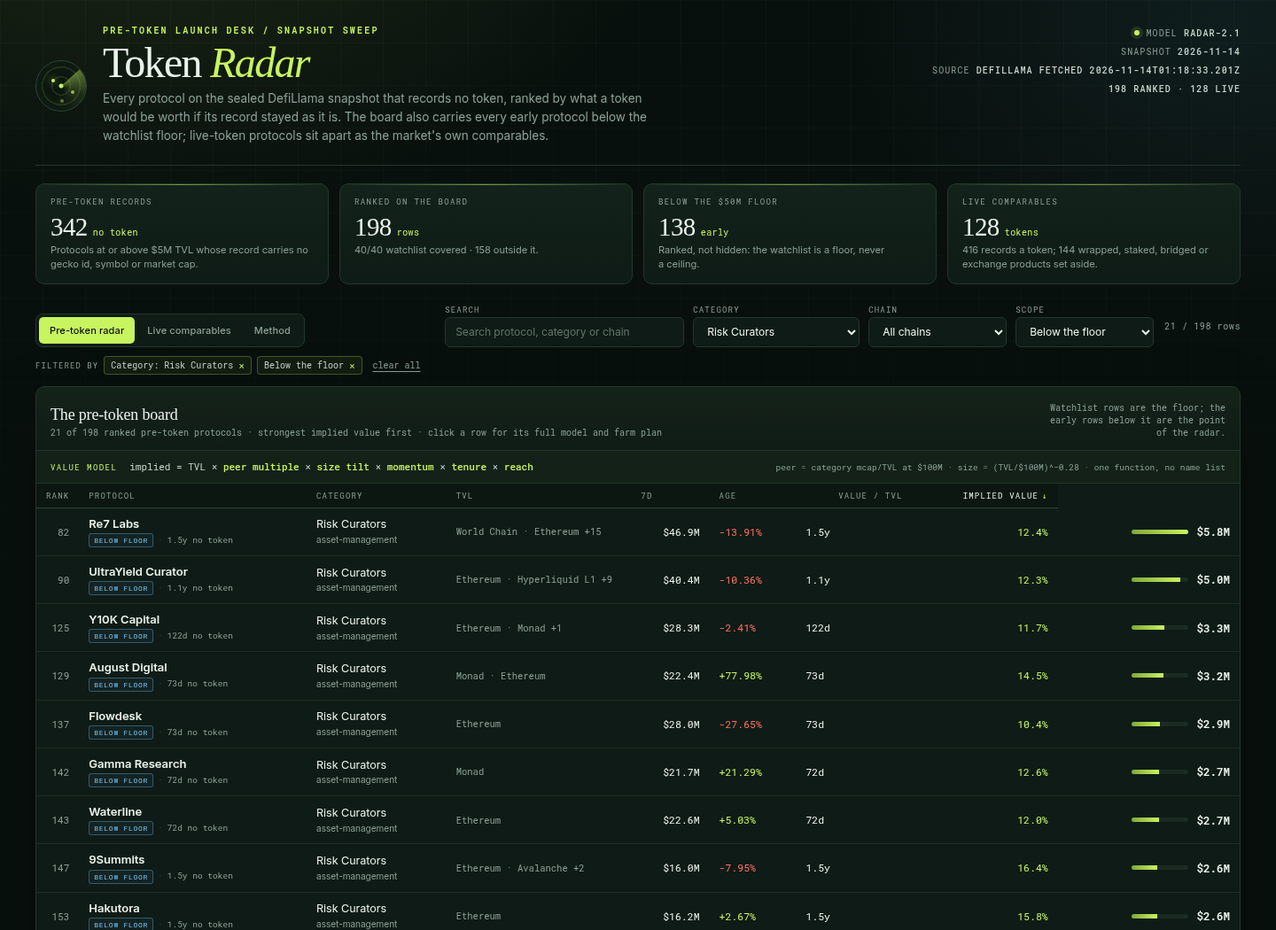
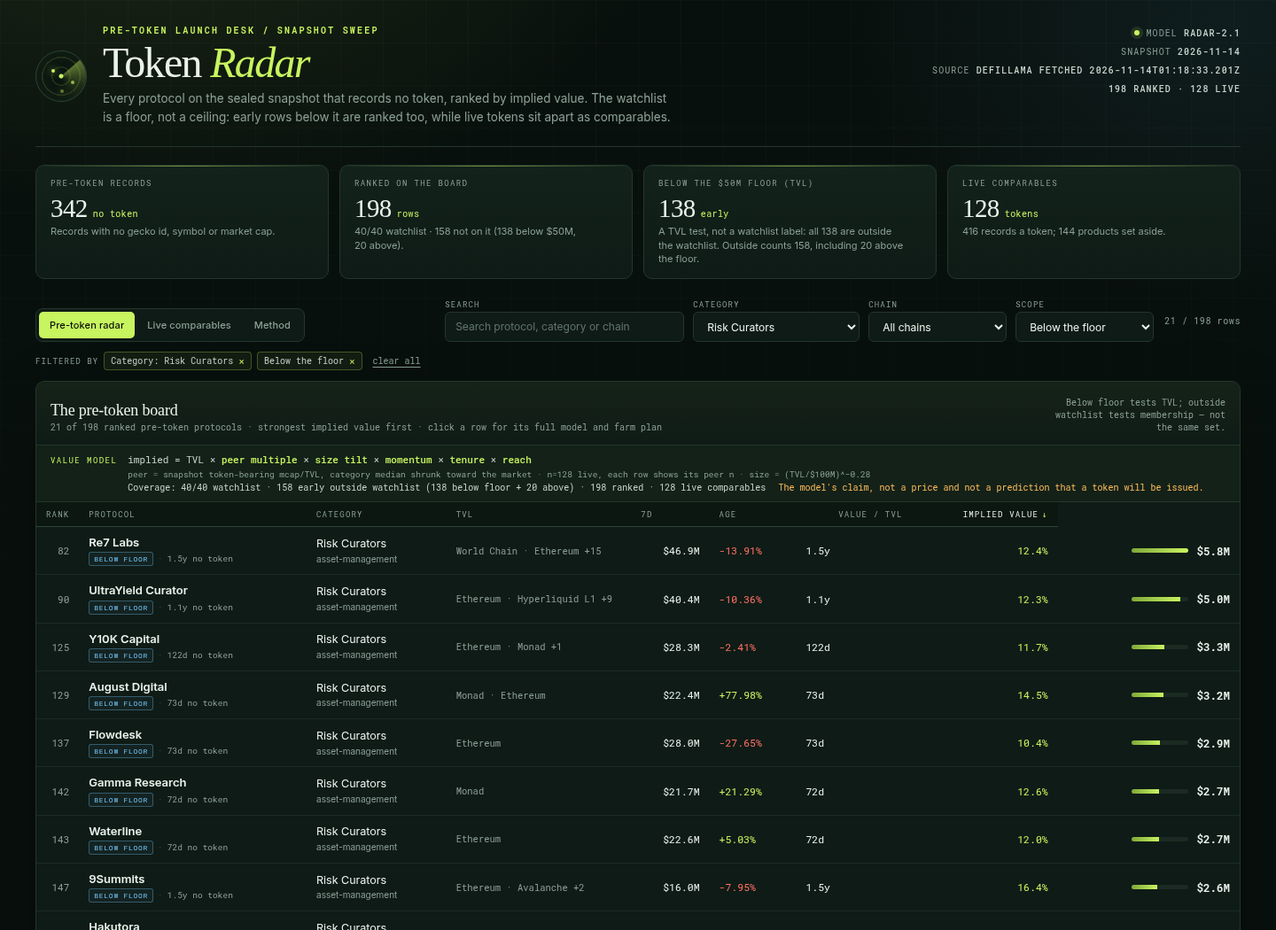
launch-radar: clearer model strip and audited detail view

diff --git a/dashboard/app.js b/dashboard/app.js
@@ -1,7 +1,5 @@
-// Token Radar's page. It reads window.RADAR (written beside dashboard/ by main.ts) and renders the ranked
-// pre-token board, the live-token comparables, the model's method, a filterable/sortable table, and a
-// per-protocol detail drawer with the full value decomposition and farm plan. No network: every byte it
-// shows is in data.js, and every number is recomputed from the snapshot's fields.
+// Token Radar's page. Reads window.RADAR from data.js; renders the ranked board, live comparables,
+// method, filters and a detail drawer with the value product and farm plan. No network in the page.
 (function () {
   'use strict';
 
@@ -48,6 +46,7 @@
     return (n === null || n === undefined || !isFinite(n)) ? 'n/a' : n.toFixed(3) + '×';
   }
   function categoryOf(row) { return row.category || 'Uncategorized'; }
+  function belowFloorCount() { return DATA.rows.filter(function (r) { return r.below_floor; }).length; }
   function chainText(row) {
     var chains = row.chains || [];
     if (chains.length === 0) return 'unnamed chain';
@@ -189,7 +188,7 @@
         el('div', null,
           el('div', { class: 'eyebrow', text: 'Pre-token launch desk / snapshot sweep' }),
           el('h1', null, 'Token ', el('em', null, 'Radar')),
-          el('p', { class: 'sub', text: 'Every protocol on the sealed DefiLlama snapshot that records no token, ranked by what a token would be worth if its record stayed as it is. The board also carries every early protocol below the watchlist floor; live-token protocols sit apart as the market\'s own comparables.' })
+          el('p', { class: 'sub', text: 'Every protocol on the sealed snapshot that records no token, ranked by implied value. The watchlist is a floor, not a ceiling: early rows below it are ranked too, while live tokens sit apart as comparables.' })
         )
       ),
       el('div', { class: 'mast-meta' },
@@ -202,12 +201,14 @@
   }
 
   function stats() {
-    var below = DATA.rows.filter(function (r) { return r.below_floor; }).length;
+    var below = belowFloorCount();
+    var outside = DATA.stats.early_rows;
+    var floor = '$' + Math.round(DATA.meta.floor_usd / 1e6) + 'M';
     var cards = [
-      { k: 'Pre-token records', v: String(DATA.stats.pre_token), small: 'no token', n: 'Protocols at or above $5M TVL whose record carries no gecko id, symbol or market cap.' },
-      { k: 'Ranked on the board', v: String(DATA.stats.ranked), small: 'rows', n: DATA.stats.watchlist_ranked + '/' + DATA.stats.watchlist + ' watchlist covered · ' + DATA.stats.early_rows + ' outside it.' },
-      { k: 'Below the $' + Math.round(DATA.meta.floor_usd / 1e6) + 'M floor', v: String(below), small: 'early', n: 'Ranked, not hidden: the watchlist is a floor, never a ceiling.' },
-      { k: 'Live comparables', v: String(DATA.stats.live_count), small: 'tokens', n: DATA.stats.token_recorded + ' records a token; ' + DATA.stats.excluded_products + ' wrapped, staked, bridged or exchange products set aside.' }
+      { k: 'Pre-token records', v: String(DATA.stats.pre_token), small: 'no token', n: 'Records with no gecko id, symbol or market cap.' },
+      { k: 'Ranked on the board', v: String(DATA.stats.ranked), small: 'rows', n: DATA.stats.watchlist_ranked + '/' + DATA.stats.watchlist + ' watchlist · ' + outside + ' not on it (' + below + ' below ' + floor + ', ' + (outside - below) + ' above).' },
+      { k: 'Below the ' + floor + ' floor (TVL)', v: String(below), small: 'early', n: 'A TVL test, not a watchlist label: all ' + below + ' are outside the watchlist. Outside counts ' + outside + ', including ' + (outside - below) + ' above the floor.' },
+      { k: 'Live comparables', v: String(DATA.stats.live_count), small: 'tokens', n: DATA.stats.token_recorded + ' records a token; ' + DATA.stats.excluded_products + ' products set aside.' }
     ];
     return el('section', { class: 'stats', 'aria-label': 'Snapshot summary' }, cards.map(function (c) {
       return el('div', { class: 'stat' },
@@ -356,7 +357,9 @@
 
   function boardTable() {
     var list = sortedRows(filteredRows());
-    if (list.length === 0) return emptyPanel('No protocol matches that filter', 'Clear the search or pick another category to see the board again.');
+    if (list.length === 0) return emptyPanel('No protocol matches that filter', 'Clear the filters to see the board.');
+    var below = belowFloorCount();
+    var outside = DATA.stats.early_rows;
     var max = list.reduce(function (m, r) { return Math.max(m, r.implied_value_usd); }, 1);
     var body = el('tbody');
     list.forEach(function (row) {
@@ -394,15 +397,19 @@
           el('h2', { text: 'The pre-token board' }),
           el('p', { text: list.length + ' of ' + DATA.rows.length + ' ranked pre-token protocols · strongest implied value first · click a row for its full model and farm plan' })
         ),
-        el('p', { class: 'muted', style: 'text-align:right;max-width:34ch', text: 'Watchlist rows are the floor; the early rows below it are the point of the radar.' })
+        el('p', { class: 'muted', style: 'text-align:right;max-width:34ch', text: 'Below floor tests TVL; outside watchlist tests membership — not the same set.' })
       ),
-      el('div', { class: 'model-strip', 'aria-label': 'Value model' },
+      el('div', { class: 'model-strip', 'aria-label': 'Value model and coverage' },
         el('span', { class: 'eq-label', text: 'Value model' }),
         el('span', { class: 'eq' },
           'implied = TVL × ', el('b', { text: 'peer multiple' }), ' × ', el('b', { text: 'size tilt' }), ' × ',
           el('b', { text: 'momentum' }), ' × ', el('b', { text: 'tenure' }), ' × ', el('b', { text: 'reach' })
         ),
-        el('span', { class: 'eq-note', text: 'peer = category mcap/TVL at $100M · size = (TVL/$100M)^−' + DATA.model.size_tilt + ' · one function, no name list' })
+        el('span', { class: 'eq-note', text: 'peer = snapshot token-bearing mcap/TVL, category median shrunk toward the market · n=' + DATA.stats.token_with_mcap + ' live, each row shows its peer n · size = (TVL/$100M)^−' + DATA.model.size_tilt }),
+        el('div', { class: 'integrity' },
+          el('span', { text: 'Coverage: ' + DATA.stats.watchlist_ranked + '/' + DATA.stats.watchlist + ' watchlist · ' + outside + ' early outside watchlist (' + below + ' below floor + ' + (outside - below) + ' above) · ' + DATA.stats.ranked + ' ranked · ' + DATA.stats.live_count + ' live comparables' }),
+          el('span', { class: 'claim', text: 'The model\'s claim, not a price and not a prediction that a token will be issued.' })
+        )
       ),
       el('div', { class: 'table-wrap' },
         el('table', null,
@@ -425,7 +432,7 @@
 
   function liveTable() {
     var list = sortedRows(filteredLive());
-    if (list.length === 0) return emptyPanel('No live comparable matches that filter', 'Clear the filters to see the protocols whose token already trades.');
+    if (list.length === 0) return emptyPanel('No live comparable matches that filter', 'Clear the filters to see live comparables.');
     var body = el('tbody');
     list.forEach(function (row) {
       body.appendChild(el('tr', { class: 'live-row' },
@@ -447,9 +454,9 @@
       el('div', { class: 'panel-head' },
         el('div', null,
           el('h2', { text: 'Token already trades' }),
-          el('p', { text: list.length + ' live comparables by market cap · these are facts, not forecasts, and never enter the pre-token rank' })
+          el('p', { text: list.length + ' live comparables by market cap · facts, not forecasts, never in the pre-token rank' })
         ),
-        el('p', { class: 'muted', style: 'text-align:right;max-width:38ch', text: 'Their market-cap / TVL multiple is the raw input to the peer book on the Method tab.' })
+        el('p', { class: 'muted', style: 'text-align:right;max-width:38ch', text: 'Their mcap / TVL feeds the Method tab\'s peer book.' })
       ),
       el('div', { class: 'table-wrap' },
         el('table', null,
@@ -495,11 +502,11 @@
       'reach = 1 + (min(chains, ' + m.reach_max_chains + ') - 1) × ' + m.reach_weight
     );
     var factors = el('dl', { class: 'factors' },
-      el('div', { class: 'factor' }, el('dt', { text: 'Peer multiple' }), el('dd', { text: 'The median market-cap / TVL multiple of token-bearing protocols in the same category, normalised to $100M TVL. A category with fewer than three comparables borrows its peer family; one with neither borrows the whole snapshot.' })),
-      el('div', { class: 'factor' }, el('dt', { text: 'Size tilt' }), el('dd', { text: 'Across the snapshot, larger TVL trades at a smaller multiple per dollar: a within-category log-log fit puts the slope near 0.64. The model damps that to -' + m.size_tilt + ' so size informs the rank without burying a large, established protocol.' })),
-      el('div', { class: 'factor' }, el('dt', { text: 'Momentum' }), el('dd', { text: 'The seven-day TVL change, clamped to [' + m.growth_floor + '%, +' + m.growth_cap + '%] and weighted at ' + Math.round(m.growth_weight * 100) + '%. One hot week cannot carry a row; one bad week cannot erase it.' })),
-      el('div', { class: 'factor' }, el('dt', { text: 'Tenure' }), el('dd', { text: 'Time since DefiLlama first listed the protocol with no token, capped at ' + m.tenure_days + ' days. It measures how long the record has run and how much of the launch cycle it has survived; an unlisted age uses ' + m.unknown_age_factor + '.' })),
-      el('div', { class: 'factor' }, el('dt', { text: 'Reach' }), el('dd', { text: 'A small premium for the number of chains the protocol runs on, capped at ' + m.reach_max_chains + ', because distribution is part of a token\'s addressable market.' }))
+      el('div', { class: 'factor' }, el('dt', { text: 'Peer multiple' }), el('dd', { text: 'Median mcap/TVL of token-bearing protocols in the same category, normalised to $100M TVL and shrunk toward the snapshot median. Thin categories borrow a peer family, then the market.' })),
+      el('div', { class: 'factor' }, el('dt', { text: 'Size tilt' }), el('dd', { text: 'Larger TVL trades at a smaller multiple per dollar; the −' + m.size_tilt + ' exponent damps the measured slope so size informs the rank without burying large protocols.' })),
+      el('div', { class: 'factor' }, el('dt', { text: 'Momentum' }), el('dd', { text: 'Seven-day TVL change clamped to [' + m.growth_floor + '%, +' + m.growth_cap + '%], weighted ' + Math.round(m.growth_weight * 100) + '%. One hot week cannot carry a row.' })),
+      el('div', { class: 'factor' }, el('dt', { text: 'Tenure' }), el('dd', { text: 'Time since DefiLlama first listed the protocol with no token, capped at ' + m.tenure_days + ' days; an unknown age uses ' + m.unknown_age_factor + '.' })),
+      el('div', { class: 'factor' }, el('dt', { text: 'Reach' }), el('dd', { text: 'A ' + Math.round(m.reach_weight * 100) + '% premium per chain after the first, capped at ' + m.reach_max_chains + '.' }))
     );
     var composition = el('div', { class: 'composition' },
       comp('Protocols in the snapshot', DATA.stats.protocols),
@@ -507,8 +514,8 @@
       comp('Ranked pre-token rows', DATA.stats.ranked),
       comp('Watchlist rows covered', DATA.stats.watchlist_ranked, '/ ' + DATA.stats.watchlist),
       comp('Early rows outside the watchlist', DATA.stats.early_rows),
-      comp('Excluded wrapped / staked / bridged / CEX', DATA.stats.excluded_products),
-      comp('Token-bearing comparables', DATA.stats.token_with_mcap, '/ ' + DATA.stats.token_recorded + ' token records')
+      comp('Excluded products', DATA.stats.excluded_products),
+      comp('Live comparables', DATA.stats.token_with_mcap, '/ ' + DATA.stats.token_recorded + ' token records')
     );
     var peerRows = DATA.categories.slice(0, 18).map(function (c) {
       return el('tr', null,
@@ -524,15 +531,15 @@
       el('div', { class: 'method' },
         el('section', { class: 'card' },
           el('h2', { text: 'The value model' }),
-          el('p', { text: 'One function scores every protocol. It reads TVL, seven-day growth, the day DefiLlama began tracking the protocol, its category peers and its chain count. No protocol name is special-cased and no row is hand-picked.' }),
+          el('p', { text: 'One function scores every row from TVL, seven-day growth, listing age, category peers and chain count. No protocol name is special-cased.' }),
           equation,
           factors
         ),
         el('section', { class: 'card' },
           el('h2', { text: 'What the snapshot holds' }),
-          el('p', { text: 'The watchlist is a floor, never a ceiling. The board covers all ' + DATA.stats.watchlist + ' watchlist protocols and adds ' + DATA.stats.early_rows + ' more pre-token protocols, most of them below the $' + Math.round(DATA.meta.floor_usd / 1e6) + 'M floor.' }),
+          el('p', { text: 'The watchlist is a floor, not a ceiling: all ' + DATA.stats.watchlist + ' watchlist rows plus ' + DATA.stats.early_rows + ' outside it are ranked. Below-floor counts TVL under $' + Math.round(DATA.meta.floor_usd / 1e6) + 'M; outside-watchlist counts membership.' }),
           composition,
-          el('div', { class: 'note', text: 'The implied value is the entry\'s own claim, not a price and not a promise that a token will be issued. A protocol that records no token may still have one its DefiLlama record does not carry; this page says "records no token", never "has none".' })
+          el('div', { class: 'note', text: 'The implied value is the entry\'s own claim — not a price or a prediction that a token will be issued. "Records no token" means the snapshot carries no token fields; a token may still exist. Open any row to audit the product and its page recompute against board.json.' })
         )
       ),
       el('section', { class: 'peers card' },
@@ -555,10 +562,6 @@
             el('tbody', null, peerRows)
           )
         )
-      ),
-      el('div', { class: 'card', style: 'margin-top:16px' },
-        el('h2', { text: 'How to read a row' }),
-        el('p', { text: 'Start at the implied value and its multiple of TVL, then open the row. The detail drawer shows the exact peer group, the size factor, the momentum and tenure multipliers, and an eight-step farm plan with a cost and a time for every step. The plan is generated from the protocol\'s category, chains, TVL and age, so a lending market and a curator vault do not get the same instructions.' })
       )
     );
   }
@@ -639,13 +642,11 @@
       el('div', { class: 'formula-line' }, el('b', { text: formula })),
       el('div', { class: 'decomp' },
         decomp('TVL', fmtUsd(row.tvl_usd), 'snapshot figure'),
-        decomp('Peer group', c.group, (c.kind === 'category' ? 'category' : c.kind === 'family' ? 'peer family' : 'whole market') + ' · n=' + c.n),
-        decomp('Peer multiple', fmtMult(c.category_multiple), 'at $100M TVL'),
-        decomp('Size factor', fmtFactor(c.size_factor), '(TVL / $100M) ^ -' + model.size_tilt),
-        decomp('Base multiple', fmtMult(c.base_multiple), 'peer × size'),
-        decomp('7d momentum', fmtPct(row.change_7d), fmtFactor(row.model.growth_multiplier)),
-        decomp('Tenure', fmtAge(row.age_days), fmtFactor(row.model.tenure_multiplier)),
-        decomp('Reach', (row.chains || []).length + ' chain(s)', fmtFactor(row.model.reach_multiplier)),
+        decomp('Peer multiple (mcap/TVL)', fmtMult(c.category_multiple), c.group + ' · ' + (c.kind === 'category' ? 'category' : c.kind === 'family' ? 'family' : 'market') + ' · n=' + c.n + ' · @ $100M'),
+        decomp('Size tilt (TVL/$100M)', fmtFactor(c.size_factor), '^−' + model.size_tilt + '; peer × size = ' + fmtMult(c.base_multiple)),
+        decomp('Momentum (7d TVL change)', fmtPct(row.change_7d), fmtFactor(row.model.growth_multiplier)),
+        decomp('Tenure (listed, no token)', fmtAge(row.age_days), fmtFactor(row.model.tenure_multiplier)),
+        decomp('Reach (chains)', (row.chains || []).length + ' chain(s)', fmtFactor(row.model.reach_multiplier)),
         decomp('Implied value', fmtUsd(row.implied_value_usd), 'model claim, not a price'),
         decomp('Page recompute', fmtUsd(check), check === row.implied_value_usd ? 'matches board.json' : 'differs from board.json')
       ),
@@ -654,7 +655,7 @@
         : 'Live peer evidence (token already trades): ' + peers.slice(0, 4).map(function (p) { return p.name + ' at ' + fmtMult(p.mcap_tvl) + ' mcap/TVL'; }).join(' · ') }),
       el('section', { class: 'section' },
         el('h3', { text: 'Farm plan' }),
-        el('p', { text: 'Eight concrete steps, each with a cost and a time. The action is chosen from the protocol\'s category; the capital, gas band and hold window come from its TVL, chains and age. Use only the protocol\'s official app, and never share a seed phrase or pay an upfront claim fee.' }),
+        el('p', { text: 'Eight steps, each with a cost and a time, chosen from this protocol\'s category, TVL, chains and age. Use only official apps; never share a seed phrase or pay an upfront claim fee.' }),
         el('div', { class: 'plan-summary' },
           el('b', { text: (row.steps || []).length + ' steps' }),
           ' · every step priced and timed · hold ',
@@ -674,7 +675,7 @@
       ),
       el('section', { class: 'section' },
         el('h3', { text: 'Peers whose token already trades' }),
-        el('p', { text: 'The raw market evidence behind this category\'s multiple. These protocols are not ranked against the pre-token board.' }),
+        el('p', { text: 'Raw mcap/TVL evidence behind this row\'s peer multiple. Not part of the pre-token rank.' }),
         peers.length === 0
           ? el('p', { class: 'muted', style: 'margin-top:10px', text: 'No token-bearing comparable in this category on the snapshot; the model falls back to its peer family or the whole market.' })
           : el('table', { class: 'peer-mini' },
@@ -694,7 +695,7 @@
             }))
           )
       ),
-      el('div', { class: 'disclaimer', text: 'This is a model, not a price and not a promise of a token. TVL can leave, smart contracts can fail and a DefiLlama record can be incomplete. Size any position so a total loss is survivable, and verify the protocol\'s own docs before approving a contract.' })
+      el('div', { class: 'disclaimer', text: 'A model, not a price or a promise of a token. TVL can leave, contracts can fail, records can be incomplete. Size for total loss and verify official docs before approving.' })
     ));
     if (typeof dialog.showModal === 'function') {
       if (!dialog.open) dialog.showModal();
@@ -724,8 +725,8 @@
     else if (state.tab === 'live') shell.appendChild(liveTable());
     else shell.appendChild(methodView());
     shell.appendChild(el('footer', null,
-      el('span', null, el('b', { text: 'Token Radar ' + DATA.meta.model_version }), ' · snapshot ' + DATA.meta.as_of + ' · ' + DATA.stats.ranked + ' pre-token rows · ' + DATA.stats.live_count + ' live comparables'),
-      el('span', { text: 'No network · every figure in this page comes from the sealed snapshot · an estimate, not a price' })
+      el('span', null, el('b', { text: 'Token Radar ' + DATA.meta.model_version }), ' · ' + DATA.meta.as_of + ' · ' + DATA.stats.ranked + ' rows · ' + DATA.stats.live_count + ' live'),
+      el('span', { text: 'No network · all figures from the sealed snapshot · an estimate, not a price' })
     ));
     app.appendChild(shell);
     app.setAttribute('aria-busy', 'false');

diff --git a/dashboard/app.css b/dashboard/app.css
@@ -1,5 +1,4 @@
-/* Token Radar — an instrument-panel page for a pre-token launch desk.
-   One palette, one type scale, one spacing scale. No network, no framework, no webfont. */
+/* Token Radar: one dark-green palette, one type scale, no network or webfont. */
 :root {
   --bg: #08100d;
   --bg-deep: #050b08;
@@ -117,9 +116,7 @@ h1 em { font-style: italic; color: var(--lime); }
   background: linear-gradient(180deg, var(--panel-2), var(--panel));
   animation: rise 420ms ease both;
 }
-.stat:nth-child(2) { animation-delay: 40ms; }
-.stat:nth-child(3) { animation-delay: 80ms; }
-.stat:nth-child(4) { animation-delay: 120ms; }
+.stat:nth-child(2) { animation-delay: 40ms; } .stat:nth-child(3) { animation-delay: 80ms; } .stat:nth-child(4) { animation-delay: 120ms; }
 .stat::before {
   content: ""; position: absolute; inset: 0 0 auto; height: 1px;
   background: linear-gradient(90deg, transparent, rgba(200, 244, 95, 0.55), transparent);
@@ -144,7 +141,7 @@ h1 em { font-style: italic; color: var(--lime); }
 .tabs button[aria-selected="true"] { background: var(--lime); color: #07100b; }
 .controls { display: flex; flex-wrap: wrap; align-items: flex-end; gap: 10px; }
 .field { display: grid; gap: 4px; }
-.field label, .field .label { color: var(--muted); font: 9px/1 var(--mono); letter-spacing: 0.13em; text-transform: uppercase; }
+.field label { color: var(--muted); font: 9px/1 var(--mono); letter-spacing: 0.13em; text-transform: uppercase; }
 .field input, .field select {
   min-height: 34px; padding: 0 11px; border: 1px solid var(--line); border-radius: var(--r-sm);
   background: var(--panel); color: var(--ink); font-size: 12px;
@@ -181,13 +178,20 @@ h1 em { font-style: italic; color: var(--lime); }
 .panel-head h2 { font: 500 18px/1.15 var(--display); letter-spacing: -0.01em; }
 .panel-head p { margin-top: 3px; color: var(--muted); font: 10px/1.4 var(--mono); }
 .model-strip {
-  display: flex; flex-wrap: wrap; align-items: baseline; gap: 4px 14px;
-  padding: 9px 16px; border-bottom: 1px solid var(--line); background: rgba(200, 244, 95, 0.028);
+  display: grid; grid-template-columns: auto minmax(0, 1fr); align-items: baseline; gap: 1px 12px;
+  padding: 8px 16px; border-bottom: 1px solid var(--line); background: rgba(200, 244, 95, 0.028);
 }
-.model-strip .eq-label { color: var(--lime); font: 9px/1 var(--mono); letter-spacing: 0.16em; text-transform: uppercase; }
-.model-strip .eq { color: var(--soft); font: 11px/1.6 var(--mono); }
+.model-strip .eq-label { grid-row: 1 / span 3; color: var(--lime); font: 9px/1 var(--mono); letter-spacing: 0.16em; text-transform: uppercase; }
+.model-strip .eq, .model-strip .eq-note, .model-strip .integrity { grid-column: 2; min-width: 0; }
+.model-strip .eq { color: var(--soft); font: 11px/1.5 var(--mono); }
 .model-strip .eq b { color: var(--lime); font-weight: 500; }
-.model-strip .eq-note { margin-left: auto; color: var(--muted); font: 9.5px/1.6 var(--mono); }
+.model-strip .eq-note { color: var(--muted); font: 9.5px/1.45 var(--mono); }
+.model-strip .integrity { display: flex; flex-wrap: wrap; gap: 1px 14px; color: var(--soft); font: 10px/1.45 var(--mono); }
+.model-strip .integrity .claim { color: var(--amber); }
+@media (max-width: 820px) {
+  .model-strip .eq-label { grid-row: auto; }
+  .model-strip .eq, .model-strip .eq-note, .model-strip .integrity { grid-column: auto; }
+}
 .table-wrap { overflow: auto; max-height: 640px; }
 table { width: 100%; border-collapse: separate; border-spacing: 0; font-size: 12.5px; }
 thead th {
@@ -231,7 +235,6 @@ tbody tr:last-child td { border-bottom: 0; }
 .multiple { color: var(--lime); }
 .muted { color: var(--muted); }
 .right { text-align: right; }
-.center { text-align: center; }
 
 .empty { display: grid; justify-items: center; gap: 10px; padding: 64px 24px; text-align: center; }
 .empty h2 { font: 500 24px var(--display); }
@@ -251,7 +254,6 @@ tbody tr:last-child td { border-bottom: 0; }
   white-space: pre-wrap;
 }
 .equation b { color: var(--lime); font-weight: 500; }
-.equation span { color: var(--muted); }
 .factors { display: grid; gap: 0; margin-top: 14px; }
 .factor { display: grid; grid-template-columns: 132px minmax(0, 1fr); gap: 12px; padding: 9px 0; border-top: 1px solid var(--line); }
 .factor dt { color: var(--muted); font: 9px/1.6 var(--mono); letter-spacing: 0.11em; text-transform: uppercase; }
@@ -292,14 +294,14 @@ dialog.detail::backdrop { background: rgba(3, 7, 5, 0.7); }
 .big-value b { color: var(--lime); font: 500 43px/1 var(--display); letter-spacing: -0.03em; }
 .big-value span { color: var(--muted); font: 10.5px var(--mono); }
 .decomp { display: grid; margin-top: 15px; overflow: hidden; border: 1px solid var(--line); border-radius: 8px; }
-.decomp-row { display: grid; grid-template-columns: 1.1fr 1fr auto; gap: 12px; align-items: baseline; padding: 9px 12px; border-bottom: 1px solid var(--line); font-size: 12px; }
+.decomp-row { display: grid; grid-template-columns: 1.15fr 0.85fr auto; gap: 9px; align-items: baseline; padding: 7px 12px; border-bottom: 1px solid var(--line); font-size: 11.5px; }
 .decomp-row:last-child { border-bottom: 0; background: rgba(200, 244, 95, 0.055); }
 .decomp-row span { color: var(--muted); }
 .decomp-row b { color: var(--soft); font: 500 11.5px var(--mono); text-align: right; }
 .decomp-row em { color: var(--muted); font: 10px var(--mono); font-style: normal; text-align: right; }
 .formula-line { margin-top: 10px; padding: 10px 12px; border: 1px solid var(--line); border-radius: 6px; background: #09130f; color: var(--muted); font: 10.5px/1.65 var(--mono); overflow-wrap: anywhere; }
 .formula-line b { color: var(--soft); font-weight: 500; }
-.section { margin-top: 26px; padding-top: 18px; border-top: 1px solid var(--line); }
+.section { margin-top: 20px; padding-top: 16px; border-top: 1px solid var(--line); }
 .section h3 { font: 500 18px/1.2 var(--display); }
 .section > p { margin-top: 5px; color: var(--muted); font-size: 12px; line-height: 1.6; }
 .plan-summary {

diff --git a/dashboard/MODEL.md b/dashboard/MODEL.md
@@ -1,17 +1,10 @@
-# Token Radar — the value model behind the board
+# Token Radar — radar-2.1 value model
 
-Snapshot **2026-11-14** · DefiLlama protocol index (758 protocols at or above $5M TVL) · watchlist floor
-**$50,000,000** · model **radar-2.1**.
+Snapshot **2026-11-14** · DefiLlama protocol index (758 records ≥ $5M TVL) · watchlist floor **$50,000,000**.
 
 ## What is ranked
 
-The board ranks **pre-token protocols**: snapshot records with no market cap, no CoinGecko id and no
-symbol. It covers all **40** watchlist protocols and adds **158** more, for **198** rows; **138** are below
-the floor, because the watchlist is the floor, never the ceiling. Token-bearing protocols are kept out of
-the rank and shown apart as live comparables (**128** with a usable market cap).
-
-Of the snapshot's **342** pre-token records, **144** are set aside as CEX, bridge, liquid-staking,
-liquid-restaking, restaked-BTC, versioned, wrapped/staked or exchange products.
+The board ranks records with no market cap, CoinGecko id or symbol. It carries all **40** watchlist slugs and adds **158** early rows outside the watchlist, for **198** ranked rows. **138** of those 158 are below the $50M TVL floor; the other **20** are above it. "Below the floor" is a TVL test; "outside the watchlist" is a membership test — not the same set. Token-bearing protocols are never ranked: **128** with a usable market cap appear apart as live comparables. A further **144** pre-token records are set aside as exchange, bridge, liquid-staking, versioned, wrapped or staked products.
 
 ## The function
 
@@ -21,40 +14,18 @@ liquid-restaking, restaked-BTC, versioned, wrapped/staked or exchange products.
 implied = TVL × peer multiple × size tilt × momentum × tenure × reach
 ```
 
-- **peer multiple** — the median market-cap/TVL of token-bearing protocols in the same category,
-  normalised to $100M TVL, shrunk toward the whole snapshot's median with 6 pseudo-observations. A
-  category with fewer than three comparables borrows its peer family; a family with fewer than three
-  borrows the whole snapshot.
-- **size tilt** — `(TVL / $100M) ^ -0.28`; a within-category log-log fit puts the raw market slope near
-  0.64, damped so size informs the rank without burying a large protocol.
-- **momentum** — `1 + clamp(change_7d, -40, 80) / 100 × 0.25`; one hot week cannot carry a row.
-- **tenure** — `0.60 + min(age_days, 1460) / 1460 × 0.40`; an unlisted age uses 0.68.
-- **reach** — `1 + (min(chains, 6) - 1) × 0.02`; distribution is part of a token's addressable market.
+- **Peer multiple** — median mcap/TVL of token-bearing protocols in the same category, normalised to $100M TVL, shrunk toward the snapshot median with 6 pseudo-observations. Fewer than 3 comparables borrow the peer family; a thin family borrows the whole market.
+- **Size tilt** — `(TVL / $100M) ^ -0.28`; a within-category log-log fit puts the raw market slope near 0.64, damped so size informs the rank without burying a large protocol.
+- **Momentum** — `1 + clamp(change_7d, -40, 80) / 100 × 0.25`; one hot week cannot carry a row.
+- **Tenure** — `0.60 + min(age_days, 1460) / 1460 × 0.40`; unknown age uses 0.68.
+- **Reach** — `1 + (min(chains, 6) - 1) × 0.02`.
 
-The result is rounded to a whole dollar and floored at $1. The board carries every multiplier for every
-row, and the detail drawer recomputes the value from the row's own fields, so the page and `board.json`
-show the same arithmetic.
+The result is rounded to a whole dollar and floored at $1. Every board row carries its multipliers; the detail view recomputes the product from the row's own fields and checks it against `board.json`.
 
 ## Farm plans
 
-`farmPlan` writes **eight** steps per protocol. The action comes from the category: lending gets a
-supply/borrow leg, DEXs and yield a LP position, curators a vault deposit, RWA a subscription and
-redemption test, derivatives a hedged margin position, staking a stake and a second operator, chains a
-bridge/swap/vote, and so on. Capital comes from TVL, the gas band from the first chain, the hold window
-from age. Every step states a **cost** and a **time** and ends with an exit tripwire.
+`farmPlan` writes eight steps per protocol. Category chooses the action (supply/borrow, LP, vault, RWA subscription, hedged margin, stake, bridge/swap, and so on); TVL chooses capital, the first chain a gas band, and age a hold window. Every step states a cost and a time, ending with an exit tripwire.
 
 ## What the board is not
 
-The implied value is the entry's own claim, not a price and not a prediction that a token will be issued.
-A protocol that records no token may still have one its DefiLlama record does not carry; the page says
-"records no token", never "has none". TVL can leave, contracts can fail and a comparable set can be thin.
-
-## Top of this snapshot
-
-| # | Protocol | Category | TVL | Implied |
-| ---: | --- | --- | ---: | ---: |
-| 1 | Steakhouse Financial | Risk Curators | $2.75B | $112.3M |
-| 2 | Sentora Curator | Risk Curators | $2.76B | $104.1M |
-| 3 | Gauntlet | Risk Curators | $1.58B | $76.7M |
-| 4 | Veda | Onchain Capital Allocator | $1.56B | $76.0M |
-| 5 | USDD | CDP | $1.06B | $74.4M |
+The implied value is the entry's own claim — not a price and not a prediction that a token will be issued. "Records no token" means the snapshot carries no token fields; a token may still exist. TVL can leave, contracts can fail and a comparable set can be thin.
